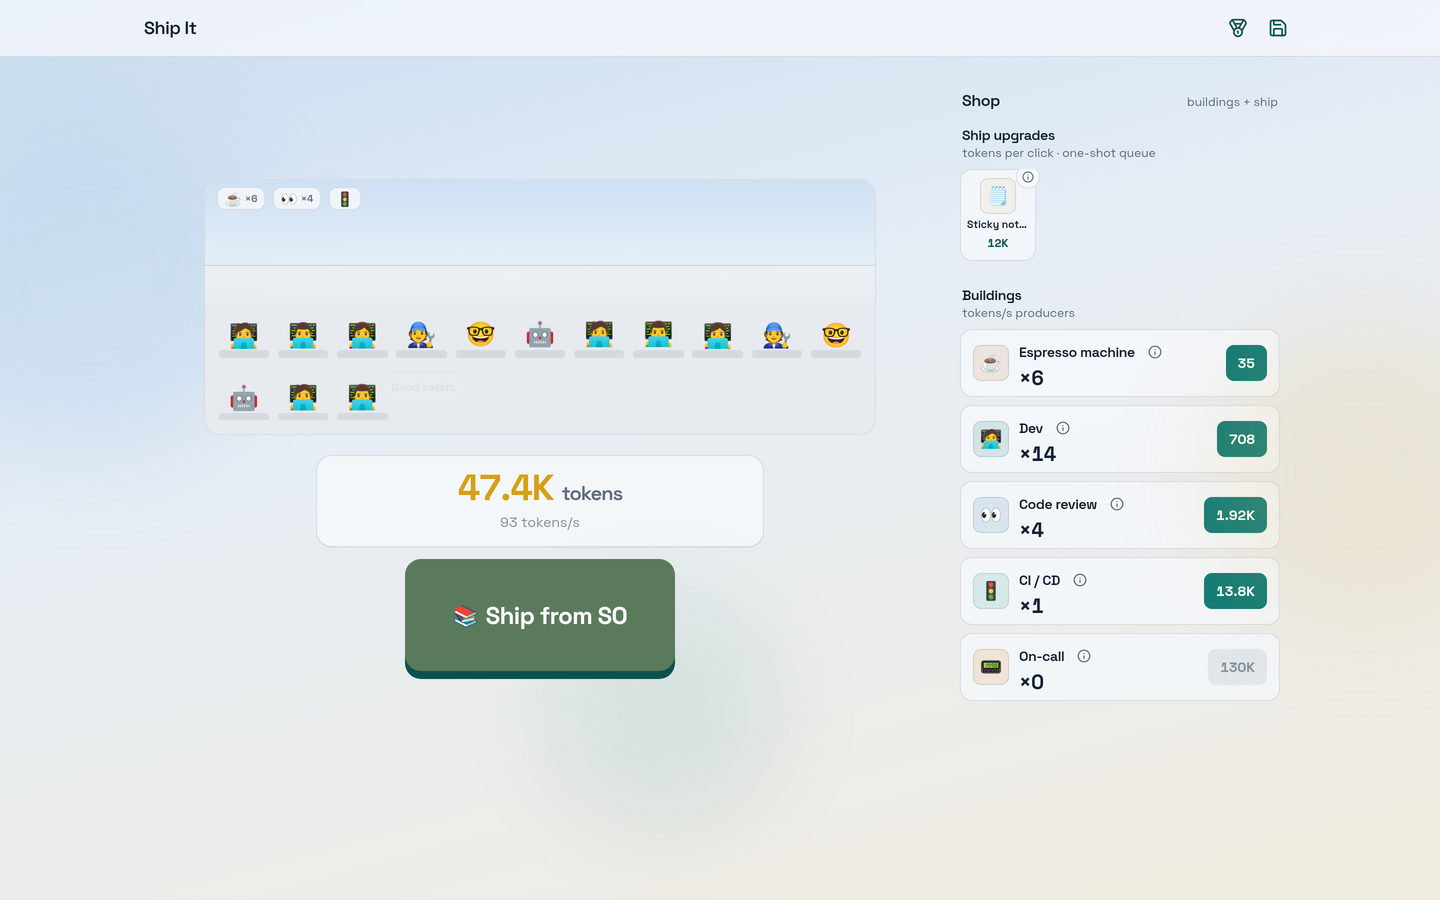
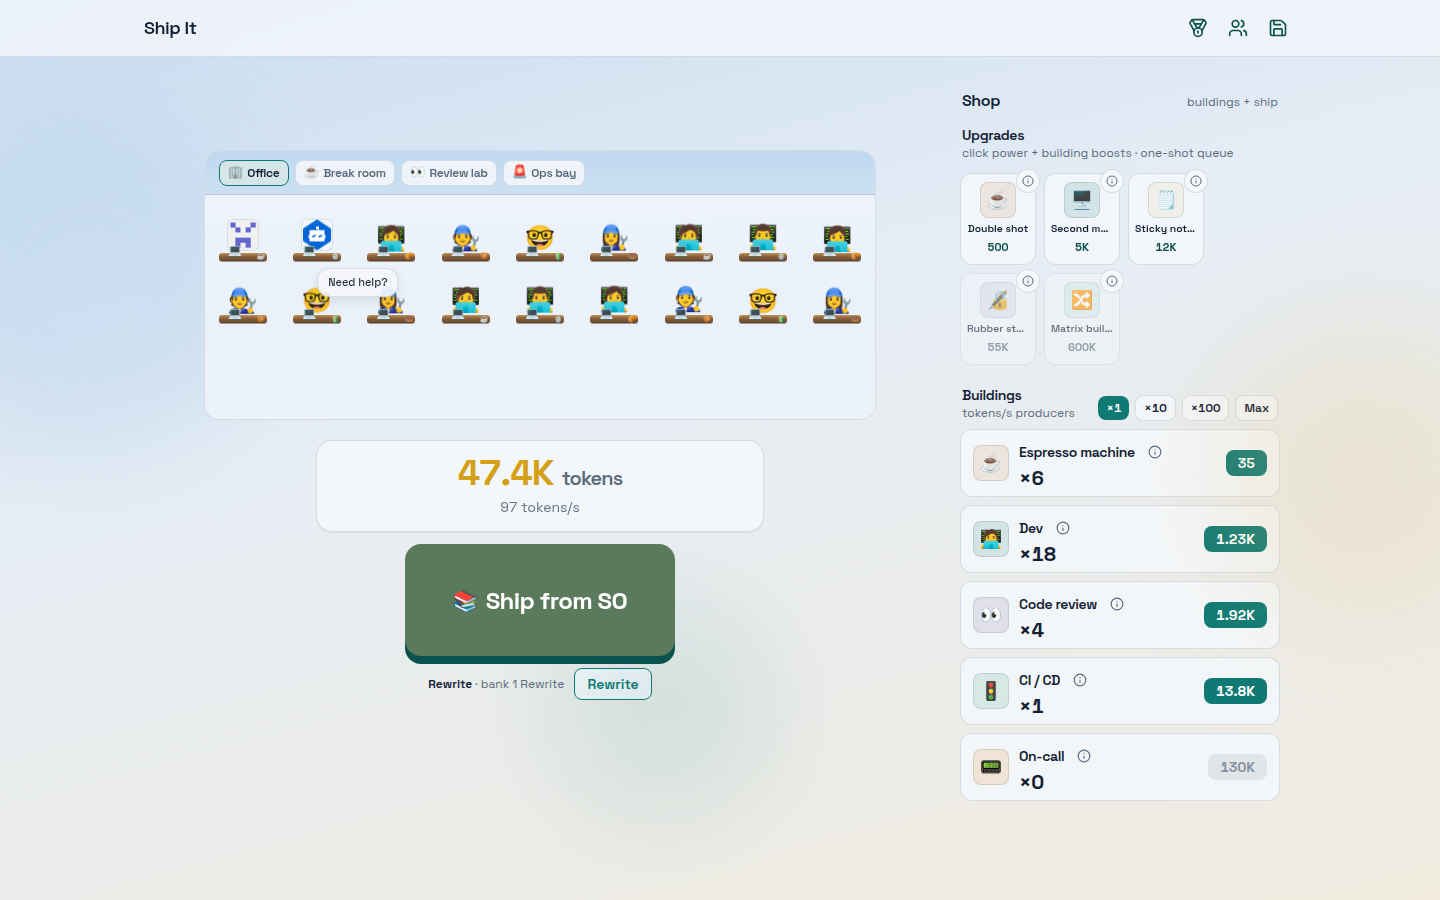
Refresh README gameplay screenshot for desk-farm office
- replace outdated emoji-chip capture with current room tabs + desk farm
- update README image alt text to match

diff --git a/README.md b/README.md
@@ -2,7 +2,7 @@
 
 Developer-themed incremental game — ship software, earn tokens, grow the office.
 
-![Ship It gameplay — small team office, token bank, and shop](./docs/assets/gameplay.png)
+![Ship It gameplay — office desk farm with room tabs, token bank, and shop](./docs/assets/gameplay.png)
 
 ## Quick start
 
